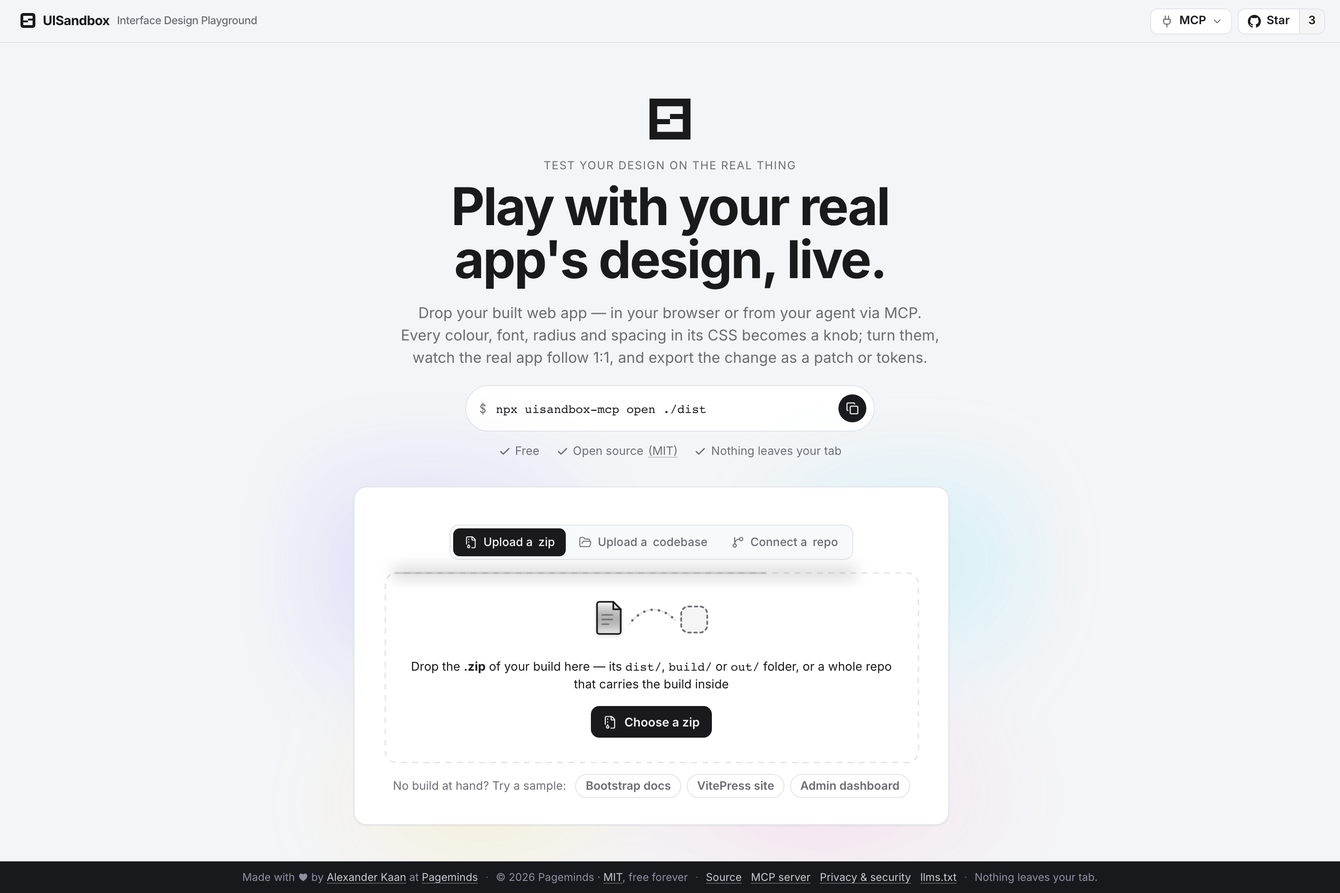
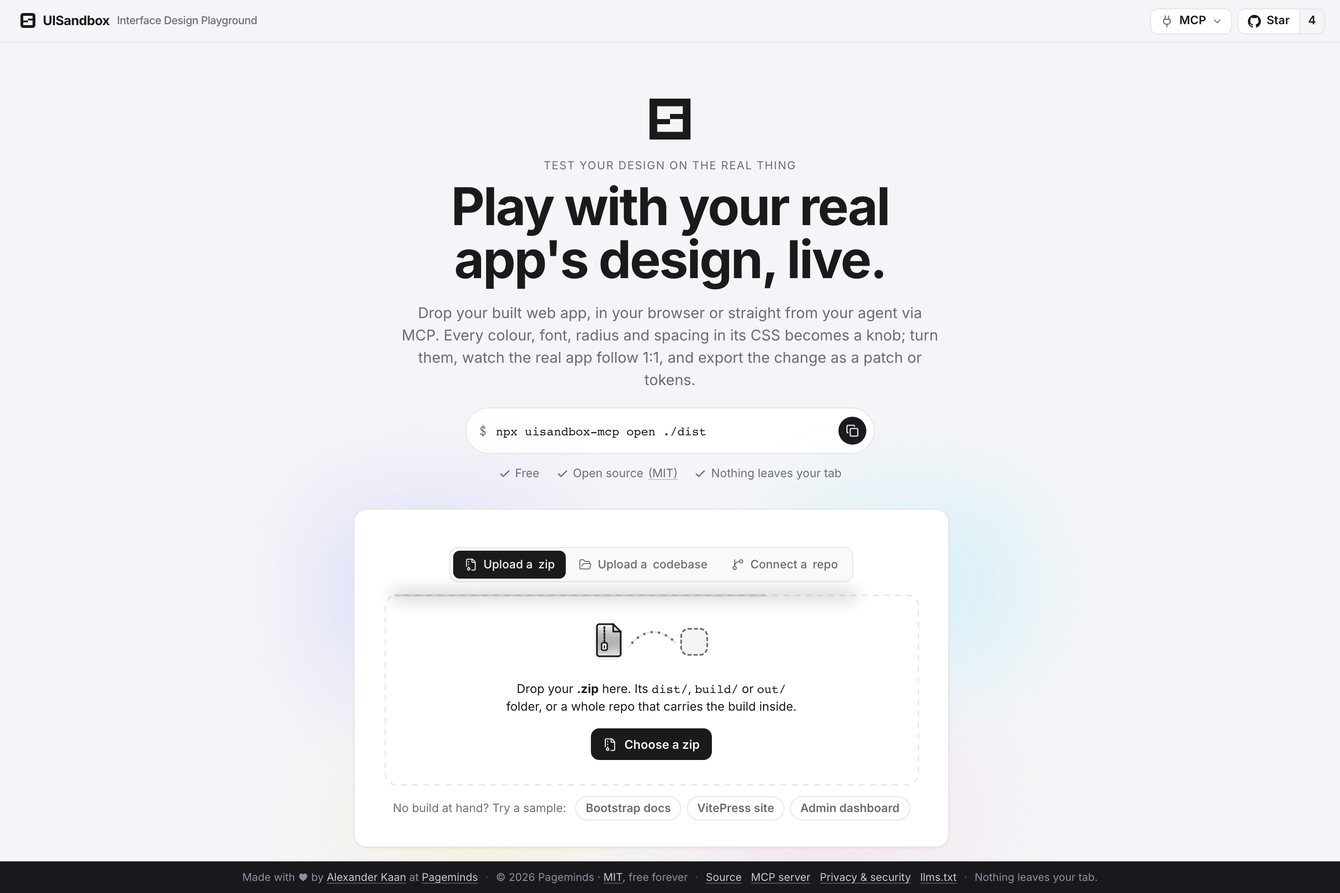
Copy pass: em dashes out of the user-facing text (plain sentences, colons, middots for title separators); the drop-zone copy balanced and optically centred; OG and hero stills reshot

diff --git a/src/app/Intake.tsx b/src/app/Intake.tsx
@@ -19,9 +19,9 @@ type Way = 'zip' | 'folder' | 'repo'
 
 /** Three real open-source builds (MIT) served from this origin — names people know, with colour everywhere the knobs reach. */
 const SAMPLES = [
-  { path: '/samples/bootstrap-docs.zip', label: 'Bootstrap docs', title: 'getbootstrap.com — the Bootstrap 5.3 docs build, 114 screens, 8 MB' },
-  { path: '/samples/vitepress-site.zip', label: 'VitePress site', title: 'vitepress.dev — 259 screens, 5 MB' },
-  { path: '/samples/sb-admin-dashboard.zip', label: 'Admin dashboard', title: 'Start Bootstrap SB Admin 2 — 13 screens, 6 MB' },
+  { path: '/samples/bootstrap-docs.zip', label: 'Bootstrap docs', title: 'getbootstrap.com: the Bootstrap 5.3 docs build (114 screens, 8 MB)' },
+  { path: '/samples/vitepress-site.zip', label: 'VitePress site', title: 'vitepress.dev (259 screens, 5 MB)' },
+  { path: '/samples/sb-admin-dashboard.zip', label: 'Admin dashboard', title: 'Start Bootstrap SB Admin 2 (13 screens, 6 MB)' },
 ]
 
 /**
@@ -65,7 +65,7 @@ export function Intake({ onArchive, onUrl, onSample, busy, error }: IntakeProps)
         <div className="intake__mark"><Mark size={44} /></div>
         <div className="hero__kicker">Test your design on the real thing</div>
         <h1>Play with your real<br />app's design, live.</h1>
-        <p className="hero__sub">Drop your built web app — in your browser or from your agent via MCP. Every colour, font, radius and spacing in its CSS becomes a knob; turn them, watch the real app follow 1:1, and export the change as a patch or tokens.</p>
+        <p className="hero__sub">Drop your built web app, in your browser or straight from your agent via MCP. Every colour, font, radius and spacing in its CSS becomes a knob; turn them, watch the real app follow 1:1, and export the change as a patch or tokens.</p>
         <InstallLine compact />
         <ul className="hero__proof" aria-label="In short">
           <li><Check size={13} strokeWidth={2.5} /> Free</li>
@@ -126,24 +126,24 @@ export function Intake({ onArchive, onUrl, onSample, busy, error }: IntakeProps)
                 <DropGlyph kind={way === 'zip' ? 'zip' : 'folder'} />
                 {way === 'zip' ? (
                   <>
-                    <div>Drop the <b>.zip</b> of your build here — its <code>dist/</code>, <code>build/</code> or <code>out/</code> folder, or a whole repo that carries the build inside</div>
+                    <div className="intake__copy">Drop your <b>.zip</b> here. Its <code>dist/</code>, <code>build/</code> or <code>out/</code> folder, or a whole repo that carries the build inside.</div>
                     <div className="intake__choices"><button type="button" className="btn btn--primary" onClick={() => zipRef.current?.click()}><FileArchive size={15} strokeWidth={1.75} /> Choose a zip</button></div>
                   </>
                 ) : (
                   <>
-                    <div>Drop a <b>folder</b> here — the build folder renders 1:1; a source folder is read for the knob stand only (a build is needed to render)</div>
+                    <div className="intake__copy">Drop a <b>folder</b> here. The build folder renders 1:1; a source folder is read for the knob stand only.</div>
                     <div className="intake__choices"><button type="button" className="btn btn--primary" onClick={() => dirRef.current?.click()}><FolderOpen size={15} strokeWidth={1.75} /> Choose a folder</button></div>
                   </>
                 )}
               </div>
             ) : (
               <div className="intake__drop intake__drop--repo">
-                <div>Paste a <b>public</b> GitHub or GitLab repository — its default branch (or a <code>/tree/branch</code> URL) is fetched as a zip and loaded here</div>
+                <div className="intake__copy">Paste a <b>public</b> GitHub or GitLab repository. Its default branch (or a <code>/tree/branch</code> URL) is fetched as a zip and loaded here.</div>
                 <form className="intake__repo" onSubmit={(e) => { e.preventDefault(); submitRepo() }}>
                   <input className="intake__input" type="url" placeholder="https://github.com/user/repo" value={repo} onChange={(e) => setRepo(e.target.value)} aria-label="GitHub or GitLab repository URL" spellCheck={false} />
                   <button type="submit" className="btn btn--primary"><GitBranch size={15} strokeWidth={1.75} /> Load</button>
                 </form>
-                <div className="intake__note">GitHub and GitLab do not allow the browser to fetch a repo zip directly, so the URL goes through uisandbox.org to fetch it — public repos only, nothing stored. Everything else stays in this tab.</div>
+                <div className="intake__note">GitHub and GitLab do not allow the browser to fetch a repo zip directly, so the URL goes through uisandbox.org to fetch it. Public repos only, nothing stored. Everything else stays in this tab.</div>
               </div>
             )}
             {onSample && (
@@ -170,44 +170,44 @@ function Landing() {
     <div className="landing">
       <section className="landing__sec">
         <h2>How it works</h2>
-        <p className="landing__lead">Restyle your app without rebuilding it — try a new look on the real thing, in seconds.</p>
+        <p className="landing__lead">Restyle your app without rebuilding it: a new look on the real thing, in seconds.</p>
         <ol className="steps">
-          <li><b>Bring the build.</b> A zip of <code>dist/</code>, <code>build/</code> or <code>out/</code>, a folder, or a public GitHub or GitLab repo. Files are read in this tab and served to the frame by a service worker — nothing is uploaded.</li>
-          <li><b>See it 1:1.</b> Every CSS literal becomes a variable holding the very same value, so the page renders exactly as it was — runtime styles, CDN stylesheets and nested frames included.</li>
-          <li><b>Turn the knobs.</b> Brand and the colour families your CSS actually contains, background, fonts, size, spacing, radius, elevation, motion, hue/saturation/contrast, your dark mode — every dial with <em>×1 = as in your code</em> at its centre.</li>
+          <li><b>Bring the build.</b> A zip of <code>dist/</code>, <code>build/</code> or <code>out/</code>, a folder, or a public GitHub or GitLab repo. Files are read in this tab and served to the frame by a service worker; nothing is uploaded.</li>
+          <li><b>See it 1:1.</b> Every CSS literal becomes a variable holding the very same value, so the page renders exactly as it was, runtime styles, CDN stylesheets and nested frames included.</li>
+          <li><b>Turn the knobs.</b> Brand and the colour families your CSS actually contains, background, fonts, size, spacing, radius, elevation, motion, hue/saturation/contrast, your dark mode. Every dial has <em>×1 = as in your code</em> at its centre.</li>
           <li><b>Export what you see.</b> Your values as CSS / JSON / a patch, your files patched in place, design tokens (CSS, Tailwind, shadcn), Swift and Android constants.</li>
         </ol>
       </section>
       <figure className="shot">
         <picture><source srcSet="/shot-stage-dark.png" media="(prefers-color-scheme: dark)" /><img src="/shot-stage.png" alt="UISandbox: a real app in the sandbox with the knobs panel beside it; the Brand knob opened and set to crimson, the page following" loading="lazy" width="1440" height="900" /></picture>
-        <figcaption>A real build in the sandbox. Brand turned to crimson — five values moved, the page followed; <em>Back to your code</em> is one click.</figcaption>
+        <figcaption>A real build in the sandbox. Brand turned to crimson: five values moved, the page followed; <em>Back to your code</em> is one click.</figcaption>
       </figure>
       <section className="landing__sec landing__cols">
         <div>
           <h2>Honest by construction</h2>
           <p><b>"1:1" is measured.</b> <em>Check 1:1</em> loads the untouched build and the tokenised build side by side and diffs the computed styles of every element (18 properties, shadow roots and nested frames included). Zero differences, or it says what differs.</p>
-          <p><b>A reach meter</b> says how much of what you see the knobs touch — painted colours, families, sizes, radii — and what lies outside (images, canvas, video).</p>
+          <p><b>A reach meter</b> says how much of what you see the knobs touch (painted colours, families, sizes, radii) and what lies outside: images, canvas, video.</p>
           <p><b>It refuses what it cannot show.</b> iOS and Android projects, WordPress themes and source without a build get a clear message at the door; a page that asks for files the archive does not hold says so.</p>
         </div>
         <figure className="shot shot--stack" aria-label="Three things the tool says out loud">
           <picture><source srcSet="/shot-verify-dark.png" media="(prefers-color-scheme: dark)" /><img src="/shot-verify.png" alt="The 1:1 check card: 67 elements paired, zero computed-style differences across 18 properties" loading="lazy" width="880" height="296" /></picture>
           <picture><source srcSet="/shot-reach-dark.png" media="(prefers-color-scheme: dark)" /><img src="/shot-reach.png" alt="The reach card: of 66 visible elements, how many the knobs touch — colours, type, radii — and what lies outside" loading="lazy" width="880" height="376" /></picture>
           <picture><source srcSet="/shot-refusal-dark.png" media="(prefers-color-scheme: dark)" /><img src="/shot-refusal.png" alt="A refusal at the door: web source without a built page — build it first, then drop the output folder" loading="lazy" width="1148" height="110" /></picture>
-          <figcaption>The check, the reach meter, a refusal — each a real screenshot.</figcaption>
+          <figcaption>The check, the reach meter, a refusal. Each a real screenshot.</figcaption>
         </figure>
       </section>
       <section className="landing__sec">
         <h2>Nothing leaves your tab</h2>
-        <p>There is no server behind the sandbox. Your files are read in the page and served to the frame by a service worker on this origin; the knobs are a URL hash; exports are generated here. The one exception is <em>Connect a repo</em>: a public GitHub or GitLab URL goes through uisandbox.org to fetch the zip, because neither host lets a browser fetch it directly — nothing is stored. A hostile archive cannot navigate this page away, register its own worker, or smuggle a path out of an export. <a href="https://github.com/AlexanderKaan/uisandbox/blob/main/notes/security.md" target="_blank" rel="noopener">The full security note.</a></p>
+        <p>There is no server behind the sandbox. Your files are read in the page and served to the frame by a service worker on this origin; the knobs are a URL hash; exports are generated here. The one exception is <em>Connect a repo</em>: a public GitHub or GitLab URL goes through uisandbox.org to fetch the zip, because neither host lets a browser fetch it directly; nothing is stored. A hostile archive cannot navigate this page away, register its own worker, or smuggle a path out of an export. <a href="https://github.com/AlexanderKaan/uisandbox/blob/main/notes/security.md" target="_blank" rel="noopener">The full security note.</a></p>
       </section>
       <section className="landing__sec">
         <h2>From your terminal, or from your agent</h2>
-        <p>The same engine runs as an MCP server, and as a <b>Claude Code skill</b> — <code>/uisandbox</code>. Say <em>"open this app in UISandbox"</em> and it builds, loads and opens the real sandbox in your browser; what you turn comes back, so <em>"export what I changed"</em> just works. The plugin installs the skill and the server in one step; any MCP client (Cursor, Claude Desktop, Codex) gets the server and its own <code>/uisandbox:open</code> prompt. Or <code>npx uisandbox-mcp open ./dist</code> without any agent.</p>
+        <p>The same engine runs as an MCP server, and as a <b>Claude Code skill</b>, <code>/uisandbox</code>. Say <em>"open this app in UISandbox"</em> and it builds, loads and opens the real sandbox in your browser; what you turn comes back, so <em>"export what I changed"</em> just works. The plugin installs the skill and the server in one step; any MCP client (Cursor, Claude Desktop, Codex) gets the server and its own <code>/uisandbox:open</code> prompt. Or <code>npx uisandbox-mcp open ./dist</code> without any agent.</p>
         <InstallLine />
       </section>
       <section className="landing__sec landing__sec--quiet">
         <h2>Who made this</h2>
-        <p>UISandbox is made by <a href="https://github.com/AlexanderKaan" target="_blank" rel="noopener">Alexander Kaan</a> at <a href="https://pageminds.com/" target="_blank" rel="noopener">Pageminds</a>. MIT, free forever, <a href="https://github.com/AlexanderKaan/uisandbox" target="_blank" rel="noopener">open source</a>. Every decision that shaped it — and every trap it fell into — is written down in the repo's <a href="https://github.com/AlexanderKaan/uisandbox/blob/main/notes/decisions.md" target="_blank" rel="noopener">notes</a>.</p>
+        <p>UISandbox is made by <a href="https://github.com/AlexanderKaan" target="_blank" rel="noopener">Alexander Kaan</a> at <a href="https://pageminds.com/" target="_blank" rel="noopener">Pageminds</a>. MIT, free forever, <a href="https://github.com/AlexanderKaan/uisandbox" target="_blank" rel="noopener">open source</a>. Every decision that shaped it (and every trap it fell into) is written down in the repo's <a href="https://github.com/AlexanderKaan/uisandbox/blob/main/notes/decisions.md" target="_blank" rel="noopener">notes</a>.</p>
       </section>
     </div>
   )

diff --git a/src/app/Stage.tsx b/src/app/Stage.tsx
@@ -113,7 +113,7 @@ export function Stage({ project, screen, onScreen, frameRef, onLoaded, onPin, ch
           // the TOP window (`top.location = …` in a hostile build hijacked the
           // whole app). No allow-top-navigation, no downloads.
           sandbox={SANDBOX_FLAGS}
-          title={`${project.name} — ${screen.label}`}
+          title={`${project.name} · ${screen.label}`}
           src={src}
           style={w ? { width: w, maxWidth: '100%' } : undefined}
           onLoad={() => {
@@ -131,7 +131,7 @@ export function Stage({ project, screen, onScreen, frameRef, onLoaded, onPin, ch
           <div className="card popcard popcard--low verify" role="dialog" aria-label="Reach">
             <h3>What the knobs reach on this screen</h3>
             <div>Of {coverage.elements} visible elements: <b>{coverage.colours.hit}/{coverage.colours.total}</b> painted colours (text, backgrounds, borders), <b>{coverage.fonts.hit}/{coverage.fonts.total}</b> text families, <b>{coverage.sizes.hit}/{coverage.sizes.total}</b> text sizes and <b>{coverage.radii.hit}/{coverage.radii.total}</b> corner radii come from your CSS literals and follow the knobs.</div>
-            <div style={{ marginTop: 6 }}>Outside any knob: {coverage.outside.images} image{coverage.outside.images === 1 ? '' : 's'}, {coverage.outside.canvas} canvas, {coverage.outside.video} video, {coverage.outside.backgroundImages} background image{coverage.outside.backgroundImages === 1 ? '' : 's'} — pixels no CSS value can move.</div>
+            <div style={{ marginTop: 6 }}>Outside any knob: {coverage.outside.images} image{coverage.outside.images === 1 ? '' : 's'}, {coverage.outside.canvas} canvas, {coverage.outside.video} video, {coverage.outside.backgroundImages} background image{coverage.outside.backgroundImages === 1 ? '' : 's'}: pixels no CSS value can move.</div>
             <div style={{ marginTop: 10 }}><button type="button" className="btn btn--ghost btn--sm" onClick={() => setShowCov(false)}>Close</button></div>
           </div>
         )}
@@ -141,14 +141,14 @@ export function Stage({ project, screen, onScreen, frameRef, onLoaded, onPin, ch
         {leftSandbox && (
           <div className="card popcard popcard--low verify" role="status">
             <h3>This screen left the sandbox</h3>
-            <div>The page navigated to another origin (a redirect page, or a script that sends visitors elsewhere). Nothing there is yours to tune — pick another screen.</div>
+            <div>The page navigated to another origin (a redirect page, or a script that sends visitors elsewhere). Nothing there is yours to tune; pick another screen.</div>
           </div>
         )}
         </div>
         <div ref={hiddenHost} aria-hidden="true" />
         {showVerify && (
           <div className="card popcard verify" role="dialog" aria-label="1:1 check">
-            <h3>1:1 check — untouched vs. tokenised, identity sheet</h3>
+            <h3>1:1 check: untouched vs. tokenised, identity sheet</h3>
             {!verify || 'busy' in verify ? (
               <div>Loading both versions of this screen and comparing every element…</div>
             ) : verify.refusal ? (
@@ -157,7 +157,7 @@ export function Stage({ project, screen, onScreen, frameRef, onLoaded, onPin, ch
               <div>✓ <b>{verify.elements}</b> elements paired, <b>0</b> computed-style differences across 18 properties.{verify.unpaired.raw + verify.unpaired.sandbox > 0 ? ` ${verify.unpaired.raw + verify.unpaired.sandbox} elements differed between the two loads (ads, widgets) and were left out.` : ''} What you see is your CSS with its literals replaced by variables holding the very same values.</div>
             ) : (
               <div>
-                ✗ {verify.mismatches.length}{verify.mismatches.length >= 40 ? '+' : ''} differences on {verify.elements} elements — a rewriter gap. Please report the first few:
+                ✗ {verify.mismatches.length}{verify.mismatches.length >= 40 ? '+' : ''} differences on {verify.elements} elements, a rewriter gap. Please report the first few:
                 <ul className="verify__list">
                   {verify.mismatches.slice(0, 12).map((m, i) => (
                     <li key={i}>&lt;{m.tag}&gt;#{m.index} {m.prop}: {m.raw} → {m.sandbox}</li>
@@ -176,11 +176,11 @@ export function Stage({ project, screen, onScreen, frameRef, onLoaded, onPin, ch
         <span><b>{project.name}</b>{project.root ? ` · root ${project.root}/` : ''} · {project.screens.length} screen{project.screens.length === 1 ? '' : 's'} · {project.table.entries.length} values tokenised from {Math.round(project.cssBytes / 1024)} KB of CSS</span>
         <span className="stage__spacer" />
         {coverage && (
-          <button type="button" className={`chip ${pct(coverage.colours) < 80 ? 'chip--warn' : ''}`} onClick={() => setShowCov((v) => !v)} title="How much of what you see the knobs reach — measured on this screen">
+          <button type="button" className={`chip ${pct(coverage.colours) < 80 ? 'chip--warn' : ''}`} onClick={() => setShowCov((v) => !v)} title="How much of what you see the knobs reach, measured on this screen">
             reach {pct(coverage.colours)}% colours · {pct(coverage.fonts)}% type · {pct(coverage.radii)}% radii{coverage.outside.images + coverage.outside.canvas + coverage.outside.backgroundImages ? ` · ${coverage.outside.images + coverage.outside.canvas + coverage.outside.backgroundImages} outside` : ''}
           </button>
         )}
-        {changedCount > 0 ? <span className="chip chip--warn"><span className="chip__dot" />{changedCount} value{changedCount === 1 ? '' : 's'} moved</span> : <span className="chip chip--ok"><span className="chip__dot" />identity — nothing turned</span>}
+        {changedCount > 0 ? <span className="chip chip--warn"><span className="chip__dot" />{changedCount} value{changedCount === 1 ? '' : 's'} moved</span> : <span className="chip chip--ok"><span className="chip__dot" />identity: nothing turned</span>}
         <button type="button" className="chip" onClick={runVerify} title="Measure: compare the untouched page with the tokenised page, element by element">
           <ShieldCheck size={12} strokeWidth={2} /> {verify && !('busy' in verify) ? (verify.ok ? '1:1 verified' : verify.refusal ? '1:1 unmeasured' : '1:1 differs') : 'Check 1:1'}
         </button>

diff --git a/src/app/App.tsx b/src/app/App.tsx
@@ -106,7 +106,7 @@ export function App() {
   // The tab title says which project is open (a hostile page may rewrite it —
   // security.md — so it is set from here on every load, not trusted).
   useEffect(() => {
-    document.title = loaded ? `UISandbox — ${loaded.project.name}` : "UISandbox — Play with your real app's design, live"
+    document.title = loaded ? `UISandbox · ${loaded.project.name}` : "UISandbox · Play with your real app's design, live"
   }, [loaded])
   const changedCount = useMemo(() => {
     if (!loaded) return 0
@@ -260,7 +260,7 @@ export function App() {
         if (!first.shell) { setThin(null); return }
         setTimeout(() => {
           const m = measure()
-          setThin(m.shell ? `This screen rendered ${m.els} element${m.els === 1 ? '' : 's'}, ${m.rules} style rules and ${m.text} characters of visible text — it looks like a shell, not the app (a page the server fills in, a build that needs its API, or a folder without its CSS). What you see here is not what your users see.` : null)
+          setThin(m.shell ? `This screen rendered ${m.els} element${m.els === 1 ? '' : 's'}, ${m.rules} style rules and ${m.text} characters of visible text. It looks like a shell, not the app (a page the server fills in, a build that needs its API, or a folder without its CSS). What you see here is not what your users see.` : null)
         }, 2800)
       }, 1200)
     }
@@ -324,11 +324,11 @@ export function App() {
       setBusy({ stage: 'fetch', what: host, bytes: 0 })
       let res: Response
       try { res = await fetch(url) } catch {
-        throw new Error(`The browser could not fetch that URL from ${host} — the server must allow CORS (or it is offline). A public GitHub repository URL works regardless: it goes through this site's repo route.`)
+        throw new Error(`The browser could not fetch that URL from ${host}: the server must allow CORS (or it is offline). A public GitHub repository URL works regardless: it goes through this site's repo route.`)
       }
       if (!res.ok) throw new Error(res.status === 404 ? `Nothing at ${host} for that URL (${res.status}).` : `${res.status} fetching from ${host}.`)
       const ct = res.headers.get('content-type') || ''
-      if (/text\/html/i.test(ct)) throw new Error(`That URL answered with a web page, not a zip — check the link (a direct link to a .zip file, or a public GitHub repository).`)
+      if (/text\/html/i.test(ct)) throw new Error(`That URL answered with a web page, not a zip. Check the link (a direct link to a .zip file, or a public GitHub repository).`)
       // Read the body in chunks so the door can count the megabytes coming in.
       const size = Number(res.headers.get('content-length') || 0) || undefined
       const chunks: BlobPart[] = []
@@ -418,7 +418,7 @@ export function App() {
               onPin={pinCurrent}
               changedCount={changedCount}
               warningTitle={!thin && !missingFiles.length && flutterWeb ? 'A Flutter web build' : undefined}
-              warning={thin ?? (missingFiles.length ? `${missingFiles.length === 1 ? 'A file' : `${missingFiles.length} files`} this page asked for ${missingFiles.length === 1 ? 'is' : 'are'} not in the archive — ${missingFiles.slice(0, 3).join(', ')}${missingFiles.length > 3 ? '…' : ''}. That usually means source, not the built output: parts of the page cannot run here.` : flutterWeb ? `Flutter paints this app into a <canvas>: there is almost no CSS for the knobs to move (${loaded.project.table.entries.length} values found). The 1:1 check and the reach meter still tell the truth about it; a design pass on a Flutter app belongs in its ThemeData.` : null)}
+              warning={thin ?? (missingFiles.length ? `${missingFiles.length === 1 ? 'A file' : `${missingFiles.length} files`} this page asked for ${missingFiles.length === 1 ? 'is' : 'are'} not in the archive: ${missingFiles.slice(0, 3).join(', ')}${missingFiles.length > 3 ? '…' : ''}. That usually means source, not the built output: parts of the page cannot run here.` : flutterWeb ? `Flutter paints this app into a <canvas>: there is almost no CSS for the knobs to move (${loaded.project.table.entries.length} values found). The 1:1 check and the reach meter still tell the truth about it; a design pass on a Flutter app belongs in its ThemeData.` : null)}
               coverage={coverage}
               notes={showNotes ? (
               <div className="card popcard" role="dialog" aria-label="What was read">
@@ -443,7 +443,7 @@ export function App() {
         {!loaded && <Intake onArchive={onArchive} onUrl={(u) => void loadFromUrl(`/__repo/?u=${encodeURIComponent(u)}`)} onSample={(p) => void loadFromUrl(p)} busy={busy} error={error} />}
         {askConsent && (
           <div className="consent" role="dialog" aria-label="Analytics">
-            <span>We count visits with Google Analytics — no names, nothing about your files. OK?</span>
+            <span>We count visits with Google Analytics. No names, nothing about your files. OK?</span>
             <button type="button" className="btn btn--primary btn--sm" onClick={() => { setConsent(true); setAskConsent(false) }}>OK</button>
             <button type="button" className="btn btn--ghost btn--sm" onClick={() => { setConsent(false); setAskConsent(false) }}>No thanks</button>
           </div>

diff --git a/index.html b/index.html
@@ -3,8 +3,8 @@
   <head>
     <meta charset="UTF-8" />
     <meta name="viewport" content="width=device-width, initial-scale=1.0" />
-    <title>UISandbox — Play with your real app's design, live</title>
-    <meta name="description" content="Play with your real app's design, live: drop the build, turn the knobs — brand, colours, fonts, spacing, radius — watch it follow 1:1, export the change as a patch or tokens. In your browser or via MCP. Free, open source, nothing leaves your tab." />
+    <title>UISandbox · Play with your real app's design, live</title>
+    <meta name="description" content="Play with your real app's design, live: drop the build, turn the knobs (brand, colours, fonts, spacing, radius), watch it follow 1:1, export the change as a patch or tokens. In your browser or via MCP. Free, open source, nothing leaves your tab." />
     <link rel="canonical" href="https://uisandbox.org/" />
     <meta name="theme-color" content="#18191d" />
     <link rel="icon" type="image/svg+xml" href="/favicon.svg" />
@@ -19,14 +19,14 @@
     <meta property="og:type" content="website" />
     <meta property="og:site_name" content="UISandbox" />
     <meta property="og:url" content="https://uisandbox.org/" />
-    <meta property="og:title" content="UISandbox — Play with your real app's design, live" />
+    <meta property="og:title" content="UISandbox · Play with your real app's design, live" />
     <meta property="og:description" content="Drop the build, turn the knobs, watch the real app follow 1:1, export the patch. In your browser or via MCP. Free, open source (MIT), nothing leaves your tab." />
     <meta property="og:image" content="https://uisandbox.org/og.png" />
     <meta property="og:image:width" content="1200" />
     <meta property="og:image:height" content="630" />
     <meta property="og:image:alt" content="UISandbox: a real web app in a sandbox with the knobs beside it" />
     <meta name="twitter:card" content="summary_large_image" />
-    <meta name="twitter:title" content="UISandbox — Play with your real app's design, live" />
+    <meta name="twitter:title" content="UISandbox · Play with your real app's design, live" />
     <meta name="twitter:description" content="Drop the build, turn the knobs, watch the real app follow 1:1, export the patch. In your browser or via MCP. Free, open source (MIT), nothing leaves your tab." />
     <meta name="twitter:image" content="https://uisandbox.org/og.png" />
     <!-- Structured data -->
@@ -85,11 +85,11 @@
           <div class="m"></div>
           <div class="k">Test your design on the real thing</div>
           <h1>Play with your real<br>app's design, live.</h1>
-          <p class="s">Drop your built web app — in your browser or from your agent via MCP. Every colour, font, radius and spacing in its CSS becomes a knob; turn them, watch the real app follow 1:1, and export the change as a patch or tokens.</p>
+          <p class="s">Drop your built web app, in your browser or straight from your agent via MCP. Every colour, font, radius and spacing in its CSS becomes a knob; turn them, watch the real app follow 1:1, and export the change as a patch or tokens.</p>
           <div class="i"></div>
           <p class="k" style="text-transform:none;letter-spacing:0;font-size:12.5px;margin:-16px 0 28px">✓ Free · ✓ Open source (MIT) · ✓ Nothing leaves your tab</p>
           <div class="c">
-            <p>Drop the <b>built</b> site — its <code>dist/</code>, <code>build/</code> or <code>out/</code> folder, a zip, or a public GitHub or GitLab repo. It renders 1:1 in the browser; nothing is uploaded (files are read in the page and served to the frame by a service worker on this origin).</p>
+            <p>Drop the <b>built</b> site: its <code>dist/</code>, <code>build/</code> or <code>out/</code> folder, a zip, or a public GitHub or GitLab repo. It renders 1:1 in the browser; nothing is uploaded (files are read in the page and served to the frame by a service worker on this origin).</p>
             <p>Knobs: brand and the colour families your CSS contains, background, fonts, text size, line height, letter spacing, weight, spacing, radius, border width, elevation, motion, gradient angle, hue, saturation, contrast, your dark mode. Export: CSS, JSON, a patch, your files patched, design tokens, Swift and Android constants. Free, MIT. <a href="https://github.com/AlexanderKaan/uisandbox">Source</a> · <a href="/llms.txt">llms.txt</a> · <a href="https://www.npmjs.com/package/uisandbox-mcp">MCP server</a></p>
           </div>
           <noscript><p style="margin-top:16px">UISandbox needs JavaScript and a browser with service workers.</p></noscript>

diff --git a/src/panel/SandboxPanel.tsx b/src/panel/SandboxPanel.tsx
@@ -192,7 +192,7 @@ export function SandboxPanel({ cfg, tokens, base, families, scheme, codeFonts = 
       value: <span className="fmrow__dots">{pal.map((hex, i) => <span key={i} className="fmrow__dot" style={{ background: hex }} title={hex} />)}</span>,
       body: () => (
         <>
-          <p className="sbp__hint">{families.palette!.length} colour famil{families.palette!.length === 1 ? 'y' : 'ies'} in your CSS that are neither the brand nor a status role — pastel tints on cards, categories, chart series. They are not touched by the Status pickers; Hue, Saturation and Contrast move them.</p>
+          <p className="sbp__hint">{families.palette!.length} colour famil{families.palette!.length === 1 ? 'y' : 'ies'} in your CSS that are neither the brand nor a status role: pastel tints on cards, categories, chart series. They are not touched by the Status pickers; Hue, Saturation and Contrast move them.</p>
           <div className="fmrow__dots" style={{ gap: 6, padding: '4px 10px 8px' }}>{pal.map((hex, i) => <span key={i} className="fmrow__dot" style={{ background: hex, width: 14, height: 14 }} title={hex} />)}</div>
         </>
       ),
@@ -266,7 +266,7 @@ export function SandboxPanel({ cfg, tokens, base, families, scheme, codeFonts = 
       <div className="card fmenu">
         <div className="fmenu__bar">
           <span className="fmenu__bar-title">Your app · knobs</span>
-          <button type="button" className="btn btn--ghost btn--icon fmenu__collapse" onClick={onCollapse} aria-label="Collapse" title="Collapse — full-width preview"><PanelLeftClose size={15} strokeWidth={1.75} /></button>
+          <button type="button" className="btn btn--ghost btn--icon fmenu__collapse" onClick={onCollapse} aria-label="Collapse" title="Collapse for a full-width preview"><PanelLeftClose size={15} strokeWidth={1.75} /></button>
         </div>
         <div className="fmenu__rows">
           {rows.map((r) => (
@@ -300,8 +300,8 @@ export function SandboxPanel({ cfg, tokens, base, families, scheme, codeFonts = 
             <button type="button" className="panel__hist" onClick={history.redo} disabled={!history.canRedo} title="Redo (⇧⌘Z)" aria-label="Redo"><Redo2 size={15} strokeWidth={1.75} /></button>
           </span>
         )}
-        <button type="button" className="btn btn--secondary panel__shuffle" onClick={onRandomize} title="Shuffle — a random stand on every knob"><Shuffle size={15} strokeWidth={1.75} /><span>Shuffle</span></button>
-        <button type="button" className="btn btn--ghost panel__reset" onClick={onReset} disabled={atRest} title={atRest ? 'Every knob is on your code' : 'Back to your code — every knob'}><RotateCcw size={15} strokeWidth={1.75} /><span>Reset</span></button>
+        <button type="button" className="btn btn--secondary panel__shuffle" onClick={onRandomize} title="Shuffle: a random stand on every knob"><Shuffle size={15} strokeWidth={1.75} /><span>Shuffle</span></button>
+        <button type="button" className="btn btn--ghost panel__reset" onClick={onReset} disabled={atRest} title={atRest ? 'Every knob is on your code' : 'Back to your code, every knob'}><RotateCcw size={15} strokeWidth={1.75} /><span>Reset</span></button>
       </div>
     </aside>
   )

diff --git a/src/app/ExportDialog.tsx b/src/app/ExportDialog.tsx
@@ -40,7 +40,7 @@ export function ExportDialog({ cfg, table, vars, projectName, files, fontCss, on
   const items = useMemo<Item[]>(() => [
     { id: 'files', group: 'Your files, patched', label: patched === null ? 'Preparing…' : patched.length ? `${patched.length} file${patched.length === 1 ? '' : 's'} changed` : 'Nothing changed yet', file: 'patched-files.txt', make: () => (patched ?? []).map((f) => `/* ===== ${f.path} ===== */\n${f.text}`).join('\n\n') || '/* Turn a knob first — then your CSS/HTML appear here with the new values written in place. */' },
     { id: 'sheet-css', group: 'Your values', label: 'CSS variables', file: 'sandbox-values.css', make: () => genSheetCss(table, vars) },
-    { id: 'sheet-changed', group: 'Your values', label: 'CSS — changed only', file: 'sandbox-changes.css', make: () => genSheetCss(table, vars, { changedOnly: true }) },
+    { id: 'sheet-changed', group: 'Your values', label: 'CSS, changed only', file: 'sandbox-changes.css', make: () => genSheetCss(table, vars, { changedOnly: true }) },
     { id: 'sheet-patch', group: 'Your values', label: 'Patch list (find → replace)', file: 'sandbox-patch.txt', make: () => genPatch(table, vars) },
     { id: 'sheet-json', group: 'Your values', label: 'JSON', file: 'sandbox-values.json', make: () => genSheetJson(table, vars) },
     { id: 'tokens-css', group: 'The tokens', label: 'tokens.css', file: 'tokens.css', make: () => genCss(cfg) },
@@ -77,7 +77,7 @@ export function ExportDialog({ cfg, table, vars, projectName, files, fontCss, on
     <div className="dialog__backdrop" onClick={onClose}>
       <div className="card dialog" role="dialog" aria-label="Export" onClick={(e) => e.stopPropagation()}>
         <div className="dialog__head">
-          <h2>Export — exactly what is in the sandbox</h2>
+          <h2>Export: exactly what is in the sandbox</h2>
           <span className="stage__spacer" style={{ flex: 1 }} />
           <button type="button" className="btn btn--secondary btn--sm" onClick={downloadAll}><Download size={13} strokeWidth={2} /> Everything (.zip)</button>
           <button type="button" className="btn btn--ghost btn--icon" onClick={onClose} aria-label="Close"><X size={15} /></button>

diff --git a/src/panel/FontPicker.tsx b/src/panel/FontPicker.tsx
@@ -129,7 +129,7 @@ export function FontPicker({ value, groups, onChange, sample, sampleSize = 'disp
       onChange(prefixedName)
       setOpen(false)
     } catch {
-      setError('Could not load font — try a .woff2 file.')
+      setError('Could not load font. Try a .woff2 file.')
     }
   }
 
@@ -197,7 +197,7 @@ export function FontPicker({ value, groups, onChange, sample, sampleSize = 'disp
       {!inline && missingCustom && (
         <div className="fp__warn" role="status">
           <AlertCircle size={12} strokeWidth={1.75} />
-          Custom font was lost on reload — re-upload to preview.
+          Custom font was lost on reload. Re-upload to preview.
         </div>
       )}
       {showMenu && (
@@ -279,7 +279,7 @@ export function FontPicker({ value, groups, onChange, sample, sampleSize = 'disp
                       </button>
                       {error && <div id="font-upload-error" className="fp__error">{error}</div>}
                       <div className="fp__upload-disclaimer">
-                        Stays in this browser session — never uploaded.
+                        Stays in this browser session, never uploaded.
                       </div>
                     </div>
                   )}

diff --git a/src/styles/chrome.css b/src/styles/chrome.css
@@ -339,6 +339,8 @@ kbd { font: 11px ui-monospace, Menlo, monospace; padding: 1px 5px; border: 1px s
 .hero { text-align: center; max-width: 720px; margin-top: 12px; }
 .hero__kicker { font-size: 12px; letter-spacing: .08em; text-transform: uppercase; color: var(--app-fg-faint); margin-top: 14px; }
 .hero h1 { font-size: clamp(34px, 6vw, 56px); line-height: 1.02; letter-spacing: -0.03em; margin: 8px 0 16px; font-weight: 700; }
+/* The drop copy: balanced lines, optically centred under the glyph. */
+.intake__copy { text-wrap: balance; max-width: 44ch; margin: 0 auto; }
 .intake__samples { display: flex; flex-wrap: wrap; justify-content: center; align-items: center; gap: 4px 6px; margin-top: 12px; font-size: 12.5px; color: var(--app-fg-faint); }
 .intake__samples span { margin-right: 4px; }
 .intake__sample { font: inherit; font-weight: 600; color: var(--app-fg-muted); background: transparent; border: 1px solid var(--app-border); border-radius: 999px; padding: 3px 10px; cursor: pointer; transition: color var(--app-dur) var(--app-ease), border-color var(--app-dur) var(--app-ease), background var(--app-dur) var(--app-ease); }

diff --git a/src/app/InstallLine.tsx b/src/app/InstallLine.tsx
@@ -3,7 +3,7 @@ import { Check, Copy } from 'lucide-react'
 
 const LINES: Array<{ id: string; label: string; cmd: string; hint: string }> = [
   { id: 'cli', label: 'Terminal', cmd: 'npx uisandbox-mcp open ./dist', hint: 'Opens the sandbox in your browser with your build folder (or a zip).' },
-  { id: 'claude', label: 'Claude Code', cmd: 'claude mcp add uisandbox -- npx -y uisandbox-mcp', hint: 'Then: "open this app in UISandbox" — it builds, loads, opens.' },
+  { id: 'claude', label: 'Claude Code', cmd: 'claude mcp add uisandbox -- npx -y uisandbox-mcp', hint: 'Then: "open this app in UISandbox". It builds, loads, opens.' },
   { id: 'plugin', label: '/uisandbox skill', cmd: '/plugin marketplace add AlexanderKaan/uisandbox\n/plugin install uisandbox@uisandbox', hint: 'Two commands in Claude Code: the /uisandbox skill and the MCP server in one plugin.' },
   { id: 'mcp', label: 'Any MCP client', cmd: 'npx -y uisandbox-mcp', hint: 'Cursor, Claude Desktop, Codex: add as a stdio server.' },
 ]

diff --git a/src/app/ScreenPicker.tsx b/src/app/ScreenPicker.tsx
@@ -71,7 +71,7 @@ export function ScreenPicker({ screens, current, onPick, onPin }: ScreenPickerPr
 
   return (
     <div className="spick" ref={rootRef}>
-      <button type="button" className="spick__btn" onClick={() => setOpen((v) => !v)} aria-haspopup="listbox" aria-expanded={open} title={`${current.path} — ${idx + 1} of ${screens.length} screens · [ ] to step`}>
+      <button type="button" className="spick__btn" onClick={() => setOpen((v) => !v)} aria-haspopup="listbox" aria-expanded={open} title={`${current.path} · ${idx + 1} of ${screens.length} screens · [ ] to step`}>
         <span className="spick__cur">{current.label}</span>
         <span className="spick__n">{idx + 1}/{screens.length}</span>
         <ChevronDown size={13} strokeWidth={2} />

diff --git a/src/app/McpButton.tsx b/src/app/McpButton.tsx
@@ -23,7 +23,7 @@ export function McpButton() {
         <div className="card mcp__pop" role="dialog" aria-label="MCP server">
           <div className="mcp__head">
             <b>Use it from your agent</b>
-            <span>Load a build, turn the knobs, verify 1:1, export the patch — as MCP tools.</span>
+            <span>Load a build, turn the knobs, verify 1:1, export the patch, as MCP tools.</span>
           </div>
           <InstallLine />
         </div>
